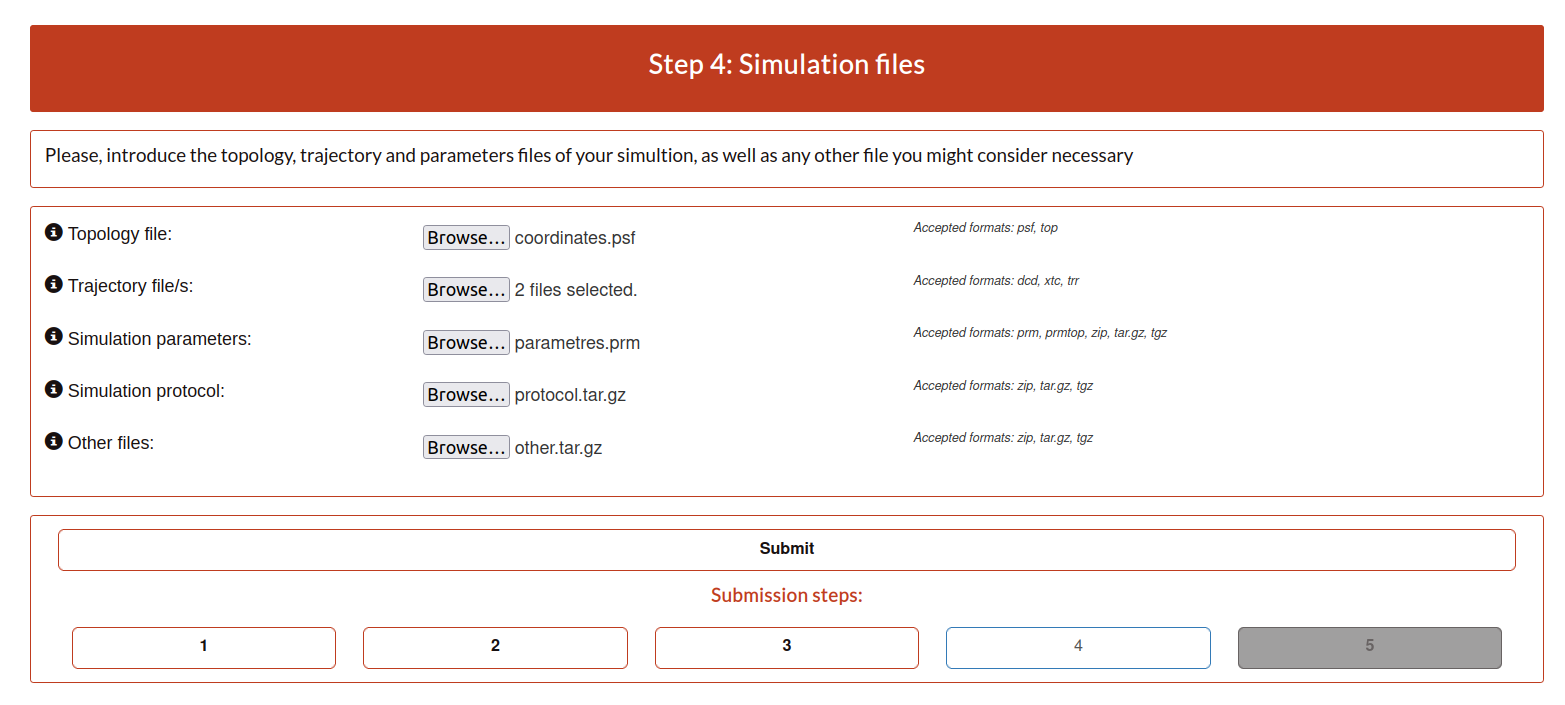
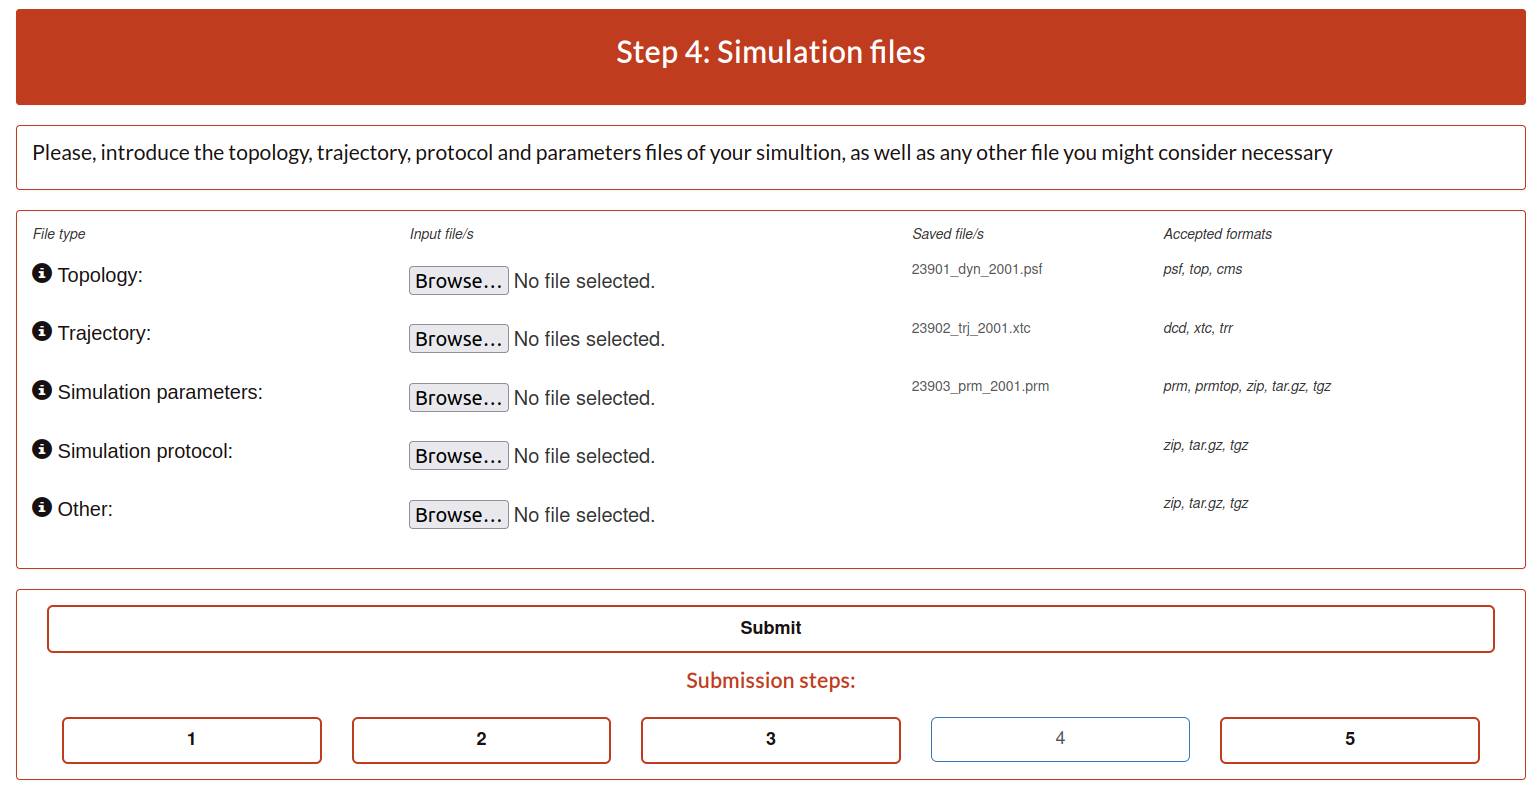
Update 2.0.5

diff --git a/source/workbench.rst b/source/workbench.rst
@@ -165,15 +165,6 @@ It is also possible to visualize the positions that correspond to conserved posi
   :width: 600
   :alt: GPCRmd viewer quick selection
 
-Experimental density map:
---------------------------
-
-Display X-ray or electron microscopy density maps by defining any selection within this section. By default, this will also modify the representation of the molecules of the system. To change this behavior, un-select the option "Apply default representations" within *Selection settings*.
-
-.. image:: _static/tools_viewer_setden.png
-  :width: 600
-  :alt: GPCRmd viewer quick selection
-
 -------
 Toolkit
 -------
@@ -325,6 +316,15 @@ This tool computes the RMSD of all the conformations in a target trajectory to a
 .. image:: _static/tools_rmsd.png
   :width: 600
   :alt: GPCRmd toolkit rmsd 
+
+Experimental density map:
+==========================
+
+Display X-ray or electron microscopy density maps by defining any selection within this section. By default, this will also modify the representation of the molecules of the system. To change this behavior, un-select the option "Apply default representations" within *Selection settings*.
+
+.. image:: _static/tools_viewer_setden.png
+  :width: 600
+  :alt: GPCRmd tool to display experimental density maps
 
 Water volume distribution:
 ==========================

diff --git a/source/changelog.rst b/source/changelog.rst
@@ -9,14 +9,15 @@ Changelog
 
 **Added**   
 
-* Step 1 & 4 shows the files that user upload into the submission. 
+* Step 1 & 4 shows the files that user previously upload into the submission. 
+* Step 1 & 4 do not request always the file/s if some file was uploaded previously.
 * To access into non-published submission reports need the submission key like in the viewer.
 * News with articles of the published submission into GPCRmd.
 
 **Fixed** 
 
-* Errors on the step2 & 3 related with small molecules or chains returning Server error message.
-* Search tool shows non-published data that are not public available. 
+* Errors on the step2 & 3 related with small molecules or chains returning 'Server error message'.
+* Search & Datasets tool showing non-published data that are not public available. 
 * Clean of uncomplete submissions. 
 
 2.0.4.1 (20-03-2024)
